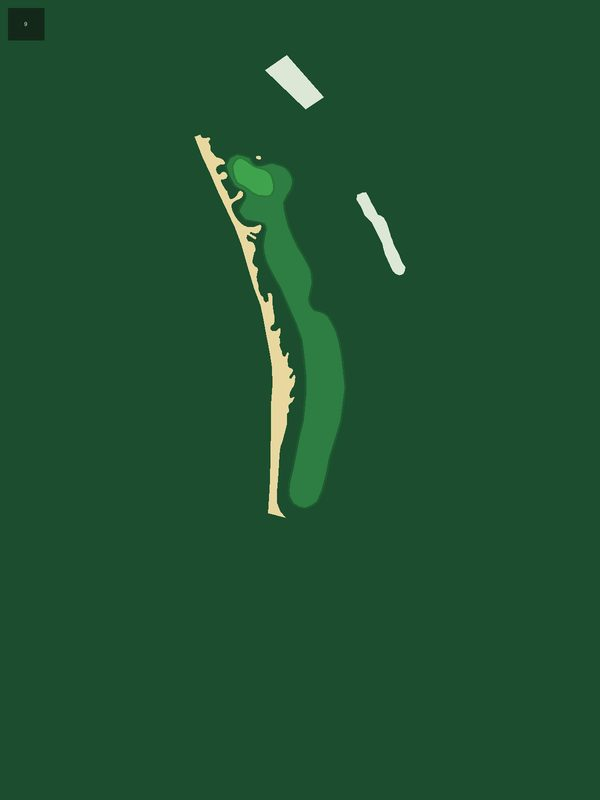
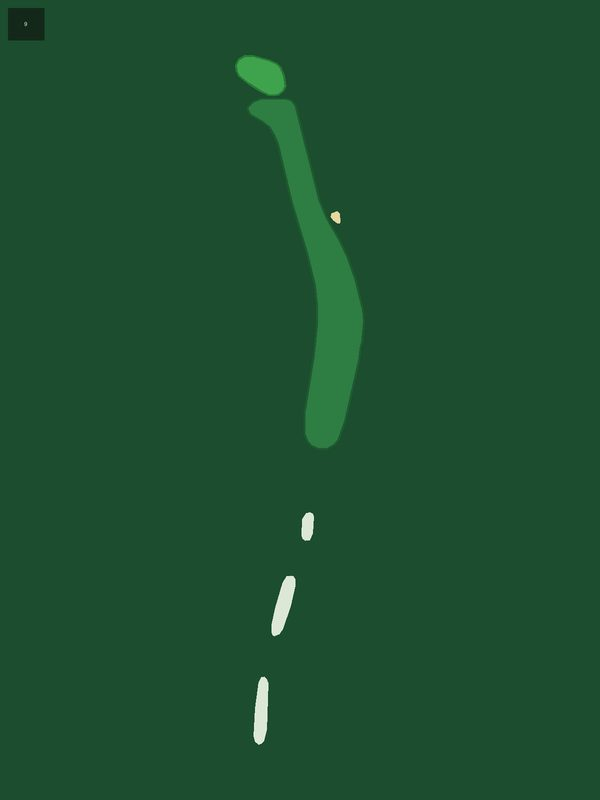
Kiawah Ocean holes 2-9: maps traced from GPS screenshots in house style
OSM had no usable centerlines for holes 2-8, so they fell back to the
procedural schematic. Traced all eight holes (2-9) from Cayden's GPS-app
screenshots via color segmentation (tools/hole-maps/kiawah_gps_trace.py):
holes 3-9 segmented automatically, hole 2 hand-traced (fitted green
ellipse + Catmull-Rom fairway centerline) because shot-tracer overlays
defeated segmentation. No third-party pixels or UI chrome shipped -
geometry only, rendered in the standard flat-vector style (600x800 q82,
75x100 exact-palette lie masks, tee-bottom/green-top). All 324 holes
across 18 courses now have image maps; no procedural fallbacks remain.
flutter analyze clean.

diff --git a/app/lib/widgets/hole_map_manifest.dart b/app/lib/widgets/hole_map_manifest.dart
@@ -271,7 +271,14 @@ const holeMapManifest = <String, Map<int, HoleMapAsset>>{
   },
   'The Ocean Course at Kiawah Island': {
     1: HoleMapAsset(par: 4, map: 'assets/hole_maps/ocean-course-kiawah-island/1.jpg', mask: 'assets/hole_maps/ocean-course-kiawah-island/1_mask.png', tee: Offset(0.456, 0.903), pin: Offset(0.491, 0.144), source: 'osm'),
-    9: HoleMapAsset(par: 4, map: 'assets/hole_maps/ocean-course-kiawah-island/9.jpg', mask: 'assets/hole_maps/ocean-course-kiawah-island/9_mask.png', tee: Offset(0.421, 0.931), pin: Offset(0.422, 0.223), source: 'osm'),
+    2: HoleMapAsset(par: 5, map: 'assets/hole_maps/ocean-course-kiawah-island/2.jpg', mask: 'assets/hole_maps/ocean-course-kiawah-island/2_mask.png', tee: Offset(0.441, 0.885), pin: Offset(0.469, 0.193), source: 'synthetic'),
+    3: HoleMapAsset(par: 4, map: 'assets/hole_maps/ocean-course-kiawah-island/3.jpg', mask: 'assets/hole_maps/ocean-course-kiawah-island/3_mask.png', tee: Offset(0.411, 0.889), pin: Offset(0.407, 0.099), source: 'synthetic'),
+    4: HoleMapAsset(par: 4, map: 'assets/hole_maps/ocean-course-kiawah-island/4.jpg', mask: 'assets/hole_maps/ocean-course-kiawah-island/4_mask.png', tee: Offset(0.580, 0.917), pin: Offset(0.579, 0.125), source: 'synthetic'),
+    5: HoleMapAsset(par: 3, map: 'assets/hole_maps/ocean-course-kiawah-island/5.jpg', mask: 'assets/hole_maps/ocean-course-kiawah-island/5_mask.png', tee: Offset(0.382, 0.758), pin: Offset(0.394, 0.160), source: 'synthetic'),
+    6: HoleMapAsset(par: 4, map: 'assets/hole_maps/ocean-course-kiawah-island/6.jpg', mask: 'assets/hole_maps/ocean-course-kiawah-island/6_mask.png', tee: Offset(0.447, 0.916), pin: Offset(0.445, 0.106), source: 'synthetic'),
+    7: HoleMapAsset(par: 5, map: 'assets/hole_maps/ocean-course-kiawah-island/7.jpg', mask: 'assets/hole_maps/ocean-course-kiawah-island/7_mask.png', tee: Offset(0.559, 0.918), pin: Offset(0.560, 0.132), source: 'synthetic'),
+    8: HoleMapAsset(par: 3, map: 'assets/hole_maps/ocean-course-kiawah-island/8.jpg', mask: 'assets/hole_maps/ocean-course-kiawah-island/8_mask.png', tee: Offset(0.451, 0.848), pin: Offset(0.447, 0.205), source: 'synthetic'),
+    9: HoleMapAsset(par: 4, map: 'assets/hole_maps/ocean-course-kiawah-island/9.jpg', mask: 'assets/hole_maps/ocean-course-kiawah-island/9_mask.png', tee: Offset(0.436, 0.889), pin: Offset(0.436, 0.093), source: 'synthetic'),
     10: HoleMapAsset(par: 4, map: 'assets/hole_maps/ocean-course-kiawah-island/10.jpg', mask: 'assets/hole_maps/ocean-course-kiawah-island/10_mask.png', tee: Offset(0.527, 0.907), pin: Offset(0.527, 0.172), source: 'osm'),
     11: HoleMapAsset(par: 5, map: 'assets/hole_maps/ocean-course-kiawah-island/11.jpg', mask: 'assets/hole_maps/ocean-course-kiawah-island/11_mask.png', tee: Offset(0.471, 0.729), pin: Offset(0.471, 0.481), source: 'osm'),
     12: HoleMapAsset(par: 4, map: 'assets/hole_maps/ocean-course-kiawah-island/12.jpg', mask: 'assets/hole_maps/ocean-course-kiawah-island/12_mask.png', tee: Offset(0.519, 0.916), pin: Offset(0.518, 0.164), source: 'osm'),

diff --git a/tools/hole-maps/kiawah_gps_trace.py b/tools/hole-maps/kiawah_gps_trace.py
@@ -1,0 +1,362 @@
+"""One-off: rebuild Kiawah Ocean holes 2-9 from Cayden's GPS-app screenshots.
+
+The OSM extraction (extract.py) found no usable centerlines for holes 2-8
+inside the course boundary, so those holes fell back to the procedural
+schematic. Cayden supplied 8 phone screenshots (holes 2-9) from a golf GPS
+app; this script color-segments the hole geometry out of them and renders
+maps + lie masks in the same house style as render.py (600x800 JPEG q82,
+75x100 exact-palette PNG mask, tee-bottom/green-top, 8% padded bbox fit).
+
+Input screenshots (not in the repo - Cayden's media library):
+  ~/workspace/user/media_library/image/52/...  -> hole 9 (PAR 4)
+  ~/workspace/user/media_library/image/20/...  -> hole 8 (PAR 3)
+  ~/workspace/user/media_library/image/5a/...  -> hole 7 (PAR 5)
+  ~/workspace/user/media_library/image/fc/...  -> hole 6 (PAR 4)
+  ~/workspace/user/media_library/image/db/...  -> hole 5 (PAR 3)
+  ~/workspace/user/media_library/image/84/...  -> hole 4 (PAR 4)
+  ~/workspace/user/media_library/image/b8/...  -> hole 3 (PAR 4)
+  ~/workspace/user/media_library/image/4b/...  -> hole 2 (PAR 5)
+
+Geometry only is extracted - no third-party pixels, UI chrome, or textures
+are shipped. Hole 2's screenshot had shot-tracer overlays (club labels,
+dispersion ellipse); those are inpainted/excluded and the fairway is
+hand-traced from a measured centerline. Writes:
+  app/assets/hole_maps/ocean-course-kiawah-island/<n>.jpg / <n>_mask.png
+and /tmp/kiawah/results.json (tee/pin), which is then merged into the
+manifest via render.write_manifest.
+
+Requires: opencv-python-headless, pillow, numpy, scipy.
+"""
+
+import json, os
+import numpy as np
+import cv2
+from PIL import Image, ImageDraw, ImageFont
+from scipy import ndimage
+
+MEDIA = "/home/hatch/workspace/user/media_library"
+REPO = "/home/hatch/workspace/golf-companion-app"
+ASSETS = os.path.join(REPO, "app", "assets", "hole_maps", "ocean-course-kiawah-island")
+QA = "/tmp/kiawah/qa"
+
+HOLES = [
+    (9, 4, "image/52/528a5e983cf6092919f27c7f1866c1a37b15bfcc8a9e43edde17f957848d5174.jpg"),
+    (8, 3, "image/20/2026e6fb46b8d342f43b54de240449c79fcad3b7e4dc85428000890981146768.jpg"),
+    (7, 5, "image/5a/5a6255bc304c6a61bb801e38e4943d282cd476001249ce0f7a5d313d6dd858b8.jpg"),
+    (6, 4, "image/fc/fc0456bc3dabb2355307fc23481de6b2fa77bc59499743438b284fd747dd59ea.jpg"),
+    (5, 3, "image/db/db8179cf89de771a9365f2eb02b701fceac7fcc598949471c3e88b0f0ecd52e0.jpg"),
+    (4, 4, "image/84/8440cd46655fc42211730a25432b28c7dadf34c56cec89466ffd4444ec5f4c37.jpg"),
+    (3, 4, "image/b8/b87534ff905e671514d437cef99ada8d70b07c4f27290098b99a3164663eaea4.jpg"),
+    (2, 5, "image/4b/4b39f703c721b633799be56dc34da6cba195166a0822b83b265ecde5ab0ed2e7.jpg"),
+]
+
+# House palette (must match tools/hole-maps/render.py exactly).
+C_ROUGH = (27, 77, 46); C_WATER = (58, 110, 165); C_FAIRWAY = (46, 125, 67)
+C_FAIRWAY_EDGE = (30, 90, 48); C_SAND = (232, 216, 160); C_GREEN = (63, 163, 77)
+C_GREEN_EDGE = (42, 120, 55); C_TEE = (220, 232, 213)
+M_ROUGH = (27, 77, 46); M_FAIRWAY = (46, 125, 67); M_TEE = (240, 240, 235)
+M_WATER = (58, 110, 165); M_SAND = (232, 216, 160); M_GREEN = (63, 163, 77)
+
+MAP_W, MAP_H = 600, 800
+MASK_W, MASK_H = 75, 100
+SSAA = 2
+
+CROP = (0, 460, 1290, 2210)
+EXCLUDE = [
+    (25, 95, 225, 425),
+    (1065, 95, 1265, 325),
+    (1065, 1365, 1265, 1625),
+    (10, 1600, 180, 1700),
+]
+
+
+def load_crop(path, hole):
+    img = Image.open(path).convert("RGB").crop(CROP)
+    a = np.array(img)
+    for x0, y0, x1, y1 in EXCLUDE:
+        a[y0:y1, x0:x1] = (0, 0, 0)
+    if hole == 2:
+        # Tracer overlays (white line, labels, dispersion ellipse): inpaint
+        # them away using surrounding pixels so the fairway stays continuous.
+        white = a.min(axis=2) > 210
+        white = ndimage.binary_dilation(white, iterations=2)
+        a = cv2.inpaint(a, white.astype(np.uint8) * 255, 9,
+                        cv2.INPAINT_TELEA)
+    return a.astype(np.int16)
+
+
+# Isolated bright markers (distance posts/bushes) to drop per hole: {hole: [(y_lo,y_hi), ...]}
+DROP_BANDS = {
+    8: [(950, 1100)],
+    5: [(900, 1050)],
+    3: [(1050, 1200)],
+}
+
+
+def ellipse_points(cx, cy, rx, ry, angle_deg, n=48):
+    a = np.deg2rad(angle_deg)
+    pts = []
+    for i in range(n):
+        t = 2 * np.pi * i / n
+        x = rx * np.cos(t); y = ry * np.sin(t)
+        pts.append((cx + x * np.cos(a) - y * np.sin(a),
+                    cy + x * np.sin(a) + y * np.cos(a)))
+    return pts
+
+
+def segment(hole, par, path, debug=False):
+    a = load_crop(path, hole)
+    H, W, _ = a.shape
+    R, G, B = a[:, :, 0], a[:, :, 1], a[:, :, 2]
+    tan = (R > 150) & ((R - B) > 40) & (G > 140)
+    blue = ((B - R) > 30) & (B > 100)
+    bright = (G > 110) & ((G - R) > 10) & ((G - B) > 10) & ~tan & ~blue
+    bright = ndimage.binary_opening(bright, structure=np.ones((3, 3)))
+    tan = ndimage.binary_opening(tan, structure=np.ones((3, 3)))
+    blue = ndimage.binary_opening(blue, structure=np.ones((3, 3)))
+    lab, n = ndimage.label(bright)
+    comps = []
+    for i in range(1, n + 1):
+        m = lab == i
+        if m.sum() < 300:
+            continue
+        m = ndimage.binary_fill_holes(m)
+        ys, xs = np.where(m)
+        comps.append({"mask": m, "area": int(m.sum()),
+                      "cx": float(xs.mean()), "cy": float(ys.mean()),
+                      "ymin": int(ys.min()), "ymax": int(ys.max())})
+    if not comps:
+        raise RuntimeError("hole %d: no geometry found" % hole)
+    # Drop known isolated markers.
+    for y_lo, y_hi in DROP_BANDS.get(hole, []):
+        comps = [c for c in comps if not (y_lo < c["cy"] < y_hi)]
+    if debug:
+        for c in sorted(comps, key=lambda c: -c["area"])[:12]:
+            print("   area %6d cx %7.1f cy %7.1f ymin %5d ymax %5d" %
+                  (c["area"], c["cx"], c["cy"], c["ymin"], c["ymax"]))
+    big = [c for c in comps if c["area"] >= 1500]
+    green = min(big or comps, key=lambda c: c["cy"])
+    rest = [c for c in comps if c is not green]
+    if par == 3:
+        # No fairway on par 3s: every sizable bright blob is a tee box.
+        tees = [c for c in rest if c["area"] >= 2500]
+        fairways = []
+    else:
+        fairways = [c for c in rest if c["area"] >= 15000]
+        fw_ids = {id(c) for c in fairways}
+        fymax = max([c["ymax"] for c in fairways]) if fairways else 0
+        # Tee boxes sit below the fairway with a visible gap.
+        tees = [c for c in rest if id(c) not in fw_ids
+                and c["area"] >= 700 and c["ymin"] > fymax - 30]
+    # (dicts contain arrays; compare by identity)
+    t_ids = {id(c) for c in tees}
+    tees = [c for c in rest if id(c) in t_ids]
+
+    def comps_of(m, min_area):
+        lab2, n2 = ndimage.label(m)
+        out = []
+        for i in range(1, n2 + 1):
+            mm = lab2 == i
+            if mm.sum() >= min_area:
+                out.append(ndimage.binary_fill_holes(mm))
+        return out
+    return {"green": [green["mask"]], "fairway": [c["mask"] for c in fairways],
+            "tee": [c["mask"] for c in tees],
+            "bunker": comps_of(tan, 150), "water": comps_of(blue, 150)}
+
+
+def trace_hole2():
+    """Hand-guided trace for hole 2 (tracer overlays defeat segmentation)."""
+    path = os.path.join(MEDIA, HOLES[7][2])
+    seg = segment(2, 5, path)
+    # Green: fitted ellipse to the measured green (robust to the label bite).
+    gm = seg["green"][0].astype(np.uint8) * 255
+    cnts, _ = cv2.findContours(gm, cv2.RETR_EXTERNAL, cv2.CHAIN_APPROX_SIMPLE)
+    cnt = max(cnts, key=cv2.contourArea)
+    (cx, cy), (MA, ma), ang = cv2.fitEllipse(cnt)
+    green = [ellipse_points(cx, cy, MA / 2 * 1.12, ma / 2 * 1.12, ang)]
+    # Fairway: hand-defined centerline (measured from the GPS render) with
+    # a width profile; the tracer overlays destroyed too much of the
+    # measured strip to interpolate across the dogleg cleanly.
+    centerline = [(540, 450), (580, 650), (630, 850), (615, 1050),
+                  (570, 1250), (535, 1380)]
+    widths = [100, 110, 115, 115, 110, 100]
+    # Subdivide smoothly (Catmull-Rom).
+    pts = []
+    ext = [centerline[0]] + centerline + [centerline[-1]]
+    for i in range(1, len(ext) - 2):
+        p0, p1, p2, p3 = ext[i - 1], ext[i], ext[i + 1], ext[i + 2]
+        for t in np.linspace(0, 1, 24, endpoint=False):
+            t2, t3 = t * t, t * t * t
+            x = 0.5 * (2 * p1[0] + (-p0[0] + p2[0]) * t +
+                       (2 * p0[0] - 5 * p1[0] + 4 * p2[0] - p3[0]) * t2 +
+                       (-p0[0] + 3 * p1[0] - 3 * p2[0] + p3[0]) * t3)
+            y = 0.5 * (2 * p1[1] + (-p0[1] + p2[1]) * t +
+                       (2 * p0[1] - 5 * p1[1] + 4 * p2[1] - p3[1]) * t2 +
+                       (-p0[1] + 3 * p1[1] - 3 * p2[1] + p3[1]) * t3)
+            w = widths[i - 1] + (widths[i] - widths[i - 1]) * t
+            pts.append((x, y, w))
+    pts.append((centerline[-1][0], centerline[-1][1], widths[-1]))
+    left, right = [], []
+    for j, (x, y, w) in enumerate(pts):
+        j0 = max(0, j - 1); j1 = min(len(pts) - 1, j + 1)
+        dx = pts[j1][0] - pts[j0][0]; dy = pts[j1][1] - pts[j0][1]
+        L = np.hypot(dx, dy) or 1.0
+        nx, ny = -dy / L, dx / L
+        left.append((x + nx * w / 2, y + ny * w / 2))
+        right.append((x - nx * w / 2, y - ny * w / 2))
+    fairway = [left + right[::-1]]
+    # Bunkers: measured (clean). Water: measured, closed to heal label bite;
+    # drop tiny fragments.
+    bunkers = []
+    for mm in seg["bunker"]:
+        bunkers.extend(mask_to_polys(mm))
+    waters = []
+    wunion = np.zeros(seg["water"][0].shape, bool)
+    for mm in seg["water"]:
+        if mm.sum() >= 3000:
+            wunion |= mm
+    if wunion.any():
+        # The "Dr" label split the water in two; heal with a big closing.
+        wunion = ndimage.binary_closing(wunion, structure=np.ones((61, 61)))
+        waters.extend(mask_to_polys(wunion))
+    # Tees: hand-placed ellipses over the visible tee boxes.
+    tees = [ellipse_points(520, 1530, 62, 78, -12),
+            ellipse_points(680, 1452, 52, 62, 8)]
+    return {"green": green, "fairway": fairway, "tee": tees,
+            "bunker": bunkers, "water": waters}
+
+
+def mask_to_polys(m):
+    u8 = m.astype(np.uint8) * 255
+    cnts, _ = cv2.findContours(u8, cv2.RETR_EXTERNAL, cv2.CHAIN_APPROX_SIMPLE)
+    polys = []
+    for c in cnts:
+        if cv2.contourArea(c) < 200:
+            continue
+        approx = cv2.approxPolyDP(c, 1.5, True).reshape(-1, 2)
+        if len(approx) >= 3:
+            polys.append([(float(x), float(y)) for x, y in approx])
+    return polys
+
+
+def poly_centroid(pts):
+    a2 = cx = cy = 0.0
+    n = len(pts)
+    for i in range(n):
+        x1, y1 = pts[i]; x2, y2 = pts[(i + 1) % n]
+        cr = x1 * y2 - x2 * y1
+        a2 += cr; cx += (x1 + x2) * cr; cy += (y1 + y2) * cr
+    if abs(a2) < 1e-9:
+        return (sum(p[0] for p in pts) / n, sum(p[1] for p in pts) / n)
+    return (cx / (3 * a2), cy / (3 * a2))
+
+
+class Fit:
+    def __init__(self, polys_by_kind):
+        xs, ys = [], []
+        for polys in polys_by_kind.values():
+            for p in polys:
+                xs.extend(x for x, y in p); ys.extend(y for x, y in p)
+        minx, maxx = min(xs), max(xs); miny, maxy = min(ys), max(ys)
+        padx = (maxx - minx) * 0.08 + 1e-6; pady = (maxy - miny) * 0.08 + 1e-6
+        self.minx, self.maxx = minx - padx, maxx + padx
+        self.miny, self.maxy = miny - pady, maxy + pady
+        spanx = self.maxx - self.minx; spany = self.maxy - self.miny
+        self.scale = min(MAP_W / spanx, MAP_H / spany)
+        self.ox = (MAP_W - spanx * self.scale) / 2
+        self.oy = (MAP_H - spany * self.scale) / 2
+
+    def norm(self, x, y):
+        ix = (x - self.minx) * self.scale + self.ox
+        iy = (y - self.miny) * self.scale + self.oy
+        return ix / MAP_W, iy / MAP_H
+
+    def px(self, x, y, w, h):
+        nx, ny = self.norm(x, y)
+        return nx * w, ny * h
+
+
+def render(number, polys, fit):
+    W, H = MAP_W * SSAA, MAP_H * SSAA
+    img = Image.new("RGB", (W, H), C_ROUGH)
+    d = ImageDraw.Draw(img)
+
+    def P(poly):
+        return [fit.px(x, y, W, H) for x, y in poly]
+
+    for poly in polys["fairway"]:
+        d.polygon(P(poly), fill=C_FAIRWAY, outline=C_FAIRWAY_EDGE, width=2 * SSAA)
+    for poly in polys["tee"]:
+        d.polygon(P(poly), fill=C_TEE)
+    for poly in polys["water"]:
+        d.polygon(P(poly), fill=C_WATER)
+    for poly in polys["bunker"]:
+        d.polygon(P(poly), fill=C_SAND)
+    for poly in polys["green"]:
+        d.polygon(P(poly), fill=C_GREEN, outline=C_GREEN_EDGE, width=2 * SSAA)
+    d.rectangle([8 * SSAA, 8 * SSAA, 44 * SSAA, 40 * SSAA], fill=(20, 40, 26))
+    d.text((26 * SSAA, 24 * SSAA), str(number), fill=(255, 255, 255),
+           font=ImageFont.load_default(), anchor="mm")
+    return img.resize((MAP_W, MAP_H), Image.LANCZOS)
+
+
+def render_mask(polys, fit):
+    img = Image.new("RGB", (MASK_W, MASK_H), M_ROUGH)
+    d = ImageDraw.Draw(img)
+    pal = {"fairway": M_FAIRWAY, "tee": M_TEE, "water": M_WATER,
+           "bunker": M_SAND, "green": M_GREEN}
+    for kind in ["fairway", "tee", "water", "bunker", "green"]:
+        for poly in polys[kind]:
+            d.polygon([fit.px(x, y, MASK_W, MASK_H) for x, y in poly],
+                      fill=pal[kind])
+    return img
+
+
+def main():
+    os.makedirs(ASSETS, exist_ok=True)
+    os.makedirs(QA, exist_ok=True)
+    results = []
+    for hole, par, rel in HOLES:
+        path = os.path.join(MEDIA, rel)
+        print("hole %d components:" % hole)
+        if hole == 2:
+            polys = trace_hole2()
+        else:
+            seg = segment(hole, par, path, debug=True)
+            polys = {k: [p for m in seg[k] for p in mask_to_polys(m)]
+                     for k in ["fairway", "tee", "water", "bunker", "green"]}
+        fit = Fit(polys)
+        if polys["tee"]:
+            # Back (bottom-most) tee box: the visual tee marker should sit on
+            # a tee box, not on rough between boxes.
+            bt = max(polys["tee"], key=lambda p: poly_centroid(p)[1])
+            tx, ty = poly_centroid(bt)
+        else:
+            fpts = [pt for p in polys["fairway"] for pt in p]
+            tx = sum(x for x, y in fpts) / len(fpts)
+            ty = max(y for x, y in fpts)
+        gx, gy = poly_centroid(max(polys["green"], key=lambda p: abs(sum(
+            p[i][0] * p[(i + 1) % len(p)][1] - p[(i + 1) % len(p)][0] * p[i][1]
+            for i in range(len(p)))) / 2.0))
+        tee_n = fit.norm(tx, ty); pin_n = fit.norm(gx, gy)
+        assert tee_n[1] > pin_n[1], "hole %d orientation violated" % hole
+        mapp = render(hole, polys, fit)
+        mask = render_mask(polys, fit)
+        mapp.save(os.path.join(ASSETS, "%d.jpg" % hole), "JPEG", quality=82)
+        mask.save(os.path.join(ASSETS, "%d_mask.png" % hole), "PNG")
+        mapp.save(os.path.join(QA, "map_%d.jpg" % hole), quality=85)
+        mask.resize((150, 200), Image.NEAREST).save(
+            os.path.join(QA, "mask_%d.png" % hole))
+        print("hole %d par %d polys %s tee=(%.3f,%.3f) pin=(%.3f,%.3f)" %
+              (hole, par, {k: len(v) for k, v in polys.items()},
+               tee_n[0], tee_n[1], pin_n[0], pin_n[1]))
+        results.append({"number": hole, "par": par, "source": "synthetic",
+                        "tee": [round(tee_n[0], 3), round(tee_n[1], 3)],
+                        "pin": [round(pin_n[0], 3), round(pin_n[1], 3)]})
+    with open("/tmp/kiawah/results.json", "w") as f:
+        json.dump(results, f, indent=1)
+
+
+if __name__ == "__main__":
+    main()
